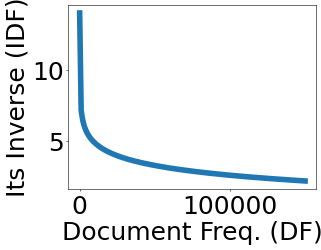
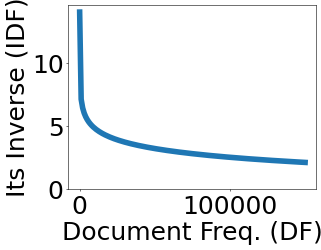
revise bm25 after reading

diff --git a/bm25/idf.py b/bm25/idf.py
@@ -13,4 +13,5 @@ y = torch.log(1_270_000 / x)
 plt.plot(x, y, linewidth=8)
 plt.xlabel("Document Freq. (DF)")
 plt.ylabel("Its Inverse (IDF)")
+plt.ylim(bottom=0)
 plt.savefig(__file__.replace(".py", ".png"), bbox_inches="tight")

diff --git a/bm25/index.md b/bm25/index.md
@@ -190,9 +190,22 @@ $$
 
 やっぱり疑問が出てくる
 
-- ドキュメント長が極端に圧縮されているが、大丈夫なのか
 - パラメータチューニングはどうするのか
+- ドキュメント長が極端に圧縮されているが、大丈夫なのか
 - 実装してみるとスコアがバラつく
+
+---
+
+## 実サービスへの適用上の疑問 > パラメータチューニング
+
+- BM25には、任意に設定できるパラメータ $k_1, b$ が存在
+    - よく知られた値もあり、それを使うこともできる。が……
+- nDCG に最適化したりできると良い
+- 原理的には、いろいろ試してみて評価尺度が最大のものを選ぶ
+    - とりあえず、手動で何通りか試してみる
+    - Grid Search
+    - Coordinate Ascent
+    - もっと高度なアルゴリズム
 
 ---
 
@@ -205,20 +218,6 @@ $$
 
 - これで BM25 を計算して精度は出るのか……？
 - 実装して評価してみるしかない、例えば nDCG で
-
----
-
-## 実サービスへの適用上の疑問 > パラメータチューニング
-
-- BM25には、任意に設定できるパラメータ $k_1, b$ が存在
-    - よく知られた値もあり、それを使うこともできる。が……
-- nDCG に最適化したりできると良い
-- 最適化手法については詳しく触れないですが、
-原理的には、いろいろ試してみて評価尺度が最大のものを選ぶ
-    - とりあえず、手動で何通りか試してみる
-    - Grid Search
-    - Coordinate Ascent
-    - もっと高度なアルゴリズム
 
 ---
 
@@ -319,6 +318,6 @@ $$\text{weight}(\kappa, \beta) = \sum_{f \in \beta} \frac
     BM25によるハイブリッド検索、言語モデル時代の発展形BM42、……
 - 実サービスを改善しようと思うと、
 既存のシステムに、入れようとしている改善が馴染むか？
-を考慮することになる（圧縮、パラメータ、分散構成……）
+を考慮することになる（圧縮、分散構成、……）
 - やっぱり評価は重要。結局なんでも評価してみることになる
 - 基本的なスコア関数は、この言語モデル時代にも依然として重要
